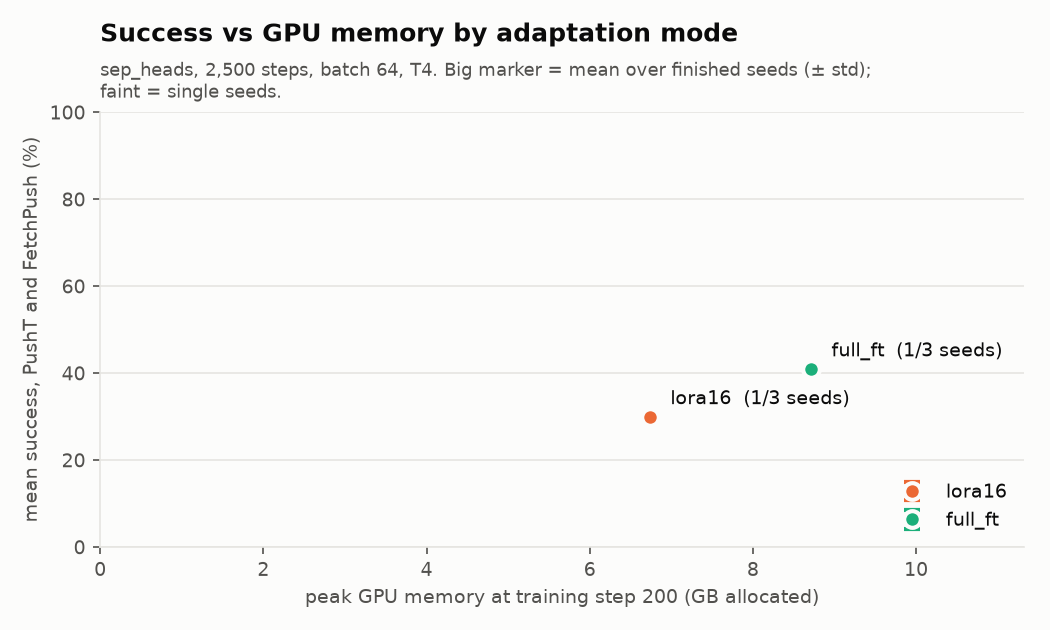
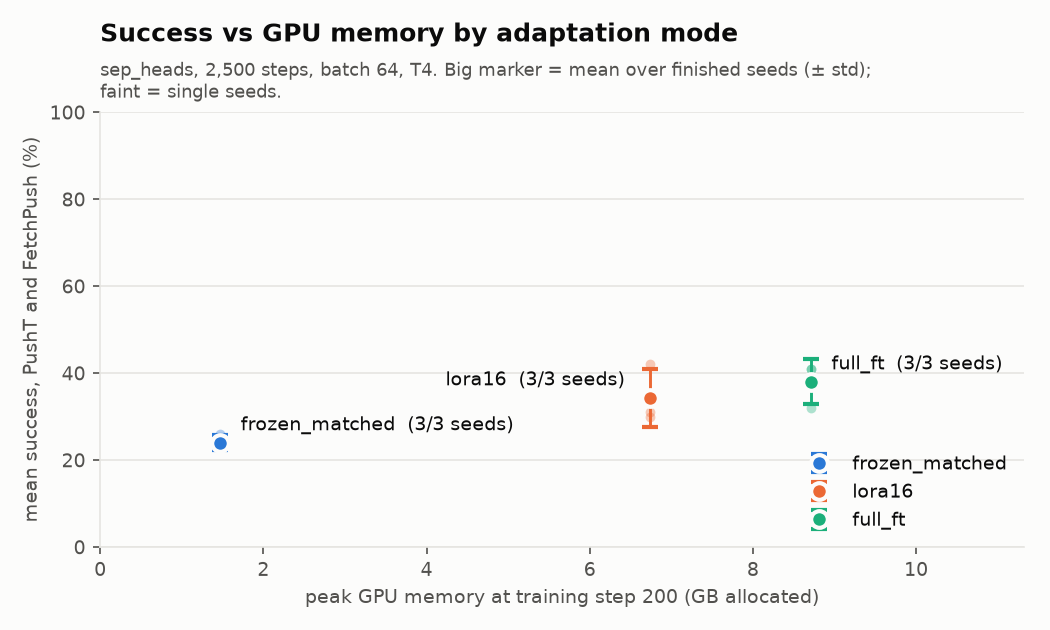
Phase 7: finished adaptation results, adapted VLA vs ResNet-18
- Rerun aggregate.py with all 30 planned runs finished (9 adaptation runs added).
- Adaptation table compares full_ft and lora16 against the ResNet-18 specialist per robot.
- findings.md: adaptation per robot (PushT and FetchPush separately), LoRA as % of
  full_ft per robot (41% PushT, 111% FetchPush, 90% mean), peak memory, full_ft PushT
  vs ResNet-18 (not distinguishable). Bootstrap intervals are still the approximate
  5-block version: the downloaded Kaggle notebooks hold console output, not metrics.json.
- plots.py: keep the lora16 label clear of the full_ft marker.

diff --git a/scripts/aggregate.py b/scripts/aggregate.py
@@ -667,6 +667,17 @@ def table_adaptation(rows) -> tuple[list[str], dict]:
     if pairs:
         lines += ["Gaps between adaptation modes:", ""]
         lines += _gap_rows(pairs, ("pusht", "fetch", "mean"), "Same bootstrap as in table 1.") + [""]
+    vs_resnet = []
+    for m in ("full_ft", "lora16"):
+        ra = config_rows(rows, "adaptation", m)
+        rp, rf = config_rows(rows, "baseline", "resnet18-pusht"), config_rows(rows, "baseline", "resnet18-fetch")
+        if ra and rp and rf:
+            vs_resnet.append((f"{m} − resnet18", {"pusht": compare(ra, rp, "pusht"), "fetch": compare(ra, rf, "fetch")}))
+    if vs_resnet:
+        lines += ["Adapted VLA vs the ResNet-18 specialist (ResNet-18: 4,000 steps, batch 128, one robot per model; "
+                  "adapted VLA: 2,500 steps, batch 64, one model for both robots):", ""]
+        lines += _gap_rows(vs_resnet, ("pusht", "fetch"), "Same bootstrap as in table 1.") + [""]
+    pairs = pairs + vs_resnet
     return lines, {"summaries": sums, "pairs": pairs}
 
 

diff --git a/scripts/plots.py b/scripts/plots.py
@@ -117,8 +117,9 @@ def adaptation_plot(rows, out: Path) -> Path:
         sd = 100 * succ.std(ddof=1) if len(succ) > 1 else 0.0
         ax.errorbar(mm, ms, yerr=sd, fmt="o", markersize=8, color=SERIES[j], markeredgecolor=SURFACE,
                     markeredgewidth=2, ecolor=SERIES[j], elinewidth=1.4, capsize=4, zorder=3, label=mode)
-        ax.annotate(f"{mode}  ({len(pts)}/3 seeds)", (mm, ms), xytext=(10, 6), textcoords="offset points",
-                    color=INK, fontsize=9)
+        left = mode == "lora16"  # sits next to full_ft: label it on the left so the two never collide
+        ax.annotate(f"{mode}  ({len(pts)}/3 seeds)", (mm, ms), xytext=(-12 if left else 10, 6),
+                    textcoords="offset points", ha="right" if left else "left", color=INK, fontsize=9)
     if not drawn:
         ax.text(0.5, 0.5, "No adaptation runs finished yet.\nRerun scripts/aggregate.py later.",
                 transform=ax.transAxes, ha="center", va="center", color=INK2, fontsize=11)

diff --git a/results/findings.md b/results/findings.md
@@ -2,16 +2,19 @@
 
 Written on 2026-11-26 from `results/results.csv` and the tables in the README (both made by
 `scripts/aggregate.py`). Every number below comes from those files, and the W&B run IDs are given
-in brackets. **Status when written:** all 9 conditioning runs and all 12 baseline runs had finished.
-Only 2 of the 9 adaptation runs had finished (seed 0 of lora16 and full_ft).
+in brackets. **Status:** all 30 planned runs have finished (9 conditioning, 12 baseline, 9 adaptation).
 
 **How to read the gaps.** A gap between two models is called **real** only if its 95% paired-bootstrap
-interval excludes 0. Otherwise it is **not distinguishable**. W&B does not hold per-seed results for
-these runs (only totals such as 32/50), so every bootstrap below is the approximate one: it
-resamples 5 blocks of 10 start seeds read from the console logs. Five units are too few for a
-trustworthy interval. So an approximate interval that excludes 0 is reported as **provisional**, not
-as real. The exact bootstrap over the 50 start seeds will replace it once the Kaggle `metrics.json`
-files are downloaded (see "What would change these numbers").
+interval excludes 0. Otherwise it is **not distinguishable**. Per-seed results are still not available:
+W&B holds only totals such as 32/50 for these runs, and the downloaded Kaggle notebooks
+(`outputs/kaggle/*.ipynb`) hold only the console output, not the run folders' `metrics.json`. So every
+bootstrap below is the approximate one: it resamples 5 blocks of 10 start seeds read from the console
+logs. Five units are too few for a trustworthy interval, so an approximate interval that excludes 0 is
+**provisional**, not real. There is one exception. A gap is called real when the approximate interval
+excludes 0, the pooled Wilson intervals do not overlap, *and* every training seed of one model beats
+every seed of the other. Such a gap is too large for the bootstrap's precision to matter. The exact
+bootstrap over the 50 start seeds will replace all of this once the `metrics.json` files are downloaded
+(see "What would change these numbers").
 
 **The FetchPush floor.** 5 of the 50 FetchPush starts (seeds 100004, 100010, 100021, 100036, 100049)
 already have the cube within 5 cm of the target. A robot that does nothing therefore scores 10%. Every
@@ -68,7 +71,9 @@ Runs: token `neo2m4ux` `vzqwyyqd` `yf3jvezd`, film `i0senai6` `2b1u0h6m` `houp0i
   7.3%. The gap is −7.3 pp [−15.3, −0.7], which is **provisional** (approximate interval, and the Wilson
   intervals overlap: [9.9, 21.2] vs [4.1, 12.7]). FetchPush: VLA 68.0% vs ResNet-18 51.3% (+41 pp
   above the floor). The gap is +16.7 pp [−2.0, +37.3]: **not distinguishable**.
-- So the shared VLA does not yet beat a separate ResNet-18 per robot. It may even be behind on PushT.
+- So the frozen VLA does not beat a separate ResNet-18 per robot, and it may be behind on PushT.
+  Fine-tuning DINOv2 changes the PushT picture (finding 5): full_ft reaches 22.7% PushT, and its gap to
+  ResNet-18 becomes not distinguishable.
 
 ## 4. Failure modes seen in the rollout videos
 
@@ -97,24 +102,49 @@ A likely cause of (1) and (2), not tested here: the model is trained with an L1 
 action chunk. Where the demonstrations disagree (go left or right around the T), it learns an average
 of them, which looks like hesitation or a push in a poor direction.
 
-## 5. Adaptation (preliminary, 1 of 3 seeds): LoRA saves less memory than expected and scores lower
+## 5. Adaptation: un-freezing DINOv2 is what helps PushT; LoRA keeps 90% of it overall, but only 41% on PushT
 
-Only seed 0 of lora16 (`8z9ys2qa`) and full_ft (`rje18trq`) had finished. frozen_matched, the fair
-frozen control, had not.
+All 9 runs finished: sep_heads, 2,500 steps, batch 64, seeds 0–2. frozen_matched is the fair control: same
+batch and steps, encoder frozen. Runs: frozen_matched `516mcmj3` `981owyth` `cw33zzpp`, lora16 `8z9ys2qa`
+`it8rjzpp` `qti0vdx9`, full_ft `rje18trq` `68prcuw5` `xl5yjno6`. ResNet-18 PushT: `331zxjun` `8un5xk7w` `ijmsr80q`.
 
-- Mean success: full fine-tuning 41.0% (PushT 22.0%, FetchPush 60.0%), LoRA 30.0% (PushT 14.0%,
-  FetchPush 46.0%). **LoRA reached 73% of full fine-tuning** (PushT 64%, FetchPush 77%). The gap
-  lora16 − full_ft is −11.0 pp [−15.0, −5.0] on the mean. That is **provisional**: one seed each, and
-  the approximate bootstrap.
-- Peak GPU memory at step 200: LoRA 6.73 GB vs full fine-tuning 8.71 GB = **23% lower**. That is a
-  real but modest saving. The adapters themselves are tiny (442,368 vs 22,056,576 trainable DINOv2
-  parameters), but both modes still run the full DINOv2 forward and backward pass over the images
-  at batch 64. LoRA mainly saves the optimizer state and the weight gradients of DINOv2.
-- Time: both took about 31 minutes per run, including evaluation (31.7 vs 31.1). LoRA saved no time.
-- FetchPush vs the floor: full fine-tuning 60.0% (+50 pp), LoRA 46.0% (+36 pp).
-- Something to watch, not a finding: full fine-tuning's 22% on PushT (11/50) is the best PushT rate of
-  any VLA run so far. It is one seed, though. frozen_matched must also finish before we can say whether
-  un-freezing helps, or whether the smaller batch at 2,500 steps does.
+| Mode | PushT | FetchPush (floor 10%) | Mean | Peak GPU memory @200 | Minutes/run |
+|---|---|---|---|---|---|
+| frozen_matched | 1.3 ± 1.2% (2/150) | 46.7 ± 3.1% (+36.7 pp) | 24.0 ± 1.7% | 1.47 GB | 9.6 |
+| lora16 | 9.3 ± 6.4% (14/150) | 59.3 ± 13.0% (+49.3 pp) | 34.3 ± 6.7% | 6.73 GB | 30.1 |
+| full_ft | 22.7 ± 3.1% (34/150) | 53.3 ± 8.3% (+43.3 pp) | 38.0 ± 5.2% | 8.71 GB | 29.7 |
+
+- **PushT: full fine-tuning is clearly better than the frozen control. This gap is real.** It is
+  +21.3 pp [+18.0, +26.0]. The pooled Wilson intervals do not overlap ([16.7, 30.0] vs [0.4, 4.7]), and
+  every full_ft seed (22, 20, 26%) beats every frozen_matched seed (0, 2, 2%). Letting DINOv2 adapt is
+  what makes PushT work at all at this budget.
+- **PushT: LoRA reaches only 41% of full fine-tuning (9.3% vs 22.7%). This gap is also real.** It is
+  −13.3 pp [−16.0, −10.7]. The Wilson intervals do not overlap ([5.6, 15.1] vs [16.7, 30.0]), and every
+  full_ft seed beats every lora16 seed (14, 12, 2%). LoRA vs the frozen control on PushT is +8.0 pp
+  [+5.3, +11.3]. That one is **provisional**: lora16's seed 2 (2%) ties the control.
+- **FetchPush: no mode is clearly ahead.** LoRA 59.3%, full_ft 53.3%, frozen_matched 46.7%, all well
+  above the 10% floor. **LoRA reaches 111% of full fine-tuning here.** The gaps lora16 − full_ft +6.0 pp
+  [+2.0, +10.0] and lora16 − frozen_matched +12.7 pp [+1.3, +20.7] are **provisional**: their seeds
+  overlap a lot (lora16 46, 72, 60%; full_ft 60, 44, 56%). full_ft − frozen_matched +6.7 pp [−5.3, +16.7]
+  is **not distinguishable**. Unsolved-start ranges: 55–70 / 74–89 / 65–80 of 135.
+- **Mean success: LoRA reaches 90% of full fine-tuning (34.3% vs 38.0%).** That 90% is an average of a
+  big PushT loss and a small FetchPush gain, so per robot (41% and 111%) is the honest way to report it.
+  The mean gap −3.7 pp [−6.3, −1.0] is **provisional**.
+- **Memory: LoRA uses 23% less peak GPU memory than full fine-tuning (6.73 vs 8.71 GB at step 200).**
+  It uses 4.6 times more than frozen features (1.47 GB). The adapters are tiny (442,368 vs 22,056,576
+  trainable DINOv2 parameters). But both modes still run DINOv2 forward and backward on every image,
+  so the activation memory stays. LoRA only saves DINOv2's weight gradients and optimizer state. Time:
+  LoRA and full fine-tuning both take about 30 minutes per run (frozen: about 10), so LoRA saves no time.
+- **full_ft PushT vs the ResNet-18 specialist: not distinguishable.** full_ft has 22.7 ± 3.1%
+  (34/150, Wilson [16.7, 30.0]) and ResNet-18 has 14.7 ± 6.1% (22/150, [9.9, 21.2]). The gap is
+  +8.0 pp [−3.3, +16.0], and the intervals overlap. So the fine-tuned VLA closes the PushT gap that
+  the frozen VLA had (finding 3), but it does not beat ResNet-18. On FetchPush, full_ft − ResNet-18 is
+  +2.0 pp [−14.7, +18.7]: not distinguishable either. The comparison is not budget-matched: ResNet-18
+  trained 4,000 steps at batch 128 on one robot, the VLA 2,500 steps at batch 64 shared by both robots.
+- **The training budget matters as much as the encoder.** frozen_matched (2,500 steps × 64 = 160k
+  samples) scores 24.0% mean, against 37.7% for the same frozen sep_heads model at 4,000 steps × 256
+  (1.0M samples). On PushT, full_ft at the small budget (22.7%) beats frozen sep_heads at the large
+  one (7.3%). That comparison mixes budget and encoder, so it is an observation, not a measured gap.
 
 ---
 
@@ -124,9 +154,12 @@ frozen control, had not.
   `outputs/kaggle/` and rerun `.venv/bin/python scripts/aggregate.py`. The "approx." intervals then
   become exact paired bootstraps over the 50 start seeds. The FetchPush "unsolved starts" ranges then
   become exact counts, and the provisional gaps in findings 2, 3 and 5 are either confirmed or dropped.
+  The files to download are the run folders under `/kaggle/working/outputs/` (for example
+  `sep_heads-lora16-s2-bd071b5/metrics.json`), from each batch notebook's Output tab. The `.ipynb`
+  notebooks themselves are not enough.
   Runs from now on also save per-seed results to W&B (`eval/<robot>_episode_success`).
-- **The adaptation batch.** Rerun the script when it finishes. Finding 5 should then be rewritten with
-  3 seeds per mode and the frozen_matched control.
+- **The adaptation gaps.** With per-seed data, check the provisional FetchPush and mean gaps in finding 5.
+  The two "real" PushT gaps are expected to stay real, given how far apart the seeds are.
 - The bootstrap treats each training seed as fixed: it measures luck in the start states, not luck in
   training. The mean ± std columns show training luck, and it is large (sep_heads PushT ranges 0–18%
   across seeds).

diff --git a/README.md b/README.md
@@ -9,12 +9,12 @@ Results are below, generated by `scripts/aggregate.py`; every number traces to W
 <!-- results:start -->
 ## Results
 
-Generated by `scripts/aggregate.py` on 2026-11-26 12:25 from W&B project `vla-multiembodiment`. Every row lists the W&B run IDs it was computed from; all per-run numbers, commits and links are in [results/results.csv](results/results.csv). Success rates are over 50 rollouts per robot per run from the fixed start seeds 100000–100049. Mean ± std is over training seeds. Per-seed results available for 0 of 23 finished runs.
+Generated by `scripts/aggregate.py` on 2026-11-26 14:34 from W&B project `vla-multiembodiment`. Every row lists the W&B run IDs it was computed from; all per-run numbers, commits and links are in [results/results.csv](results/results.csv). Success rates are over 50 rollouts per robot per run from the fixed start seeds 100000–100049. Mean ± std is over training seeds. Per-seed results available for 0 of 30 finished runs.
 
 Run status:
 - conditioning: 9 finished (of 9)
 - baseline: 12 finished (of 12)
-- adaptation: 2 finished, 5 missing, 2 running (of 9)
+- adaptation: 9 finished (of 9)
 
 ### 1. Conditioning variants (frozen encoders, 4,000 steps)
 
@@ -47,11 +47,11 @@ Gaps are A − B in percentage points. The interval is a paired bootstrap (10,00
 | sep_heads | 3/3 | 102/150 = 68.0% [60.2, 74.9] | +58.0 | 87–102 of 135 (range; needs per-seed data) |
 | bc_mlp | 3/3 | 15/150 = 10.0% [6.2, 15.8] | +0.0 | 0–15 of 135 (range; needs per-seed data) |
 | resnet18 | 3/3 | 77/150 = 51.3% [43.4, 59.2] | +41.3 | 62–77 of 135 (range; needs per-seed data) |
-| sep_heads frozen_matched (2500 steps) | 0/3 | not finished | – | – |
-| sep_heads lora16 (2500 steps) | 1/3 | 23/50 = 46.0% [33.0, 59.6] | +36.0 | 18–23 of 45 (range; needs per-seed data) |
-| sep_heads full_ft (2500 steps) | 1/3 | 30/50 = 60.0% [46.2, 72.4] | +50.0 | 25–30 of 45 (range; needs per-seed data) |
+| sep_heads frozen_matched (2500 steps) | 3/3 | 70/150 = 46.7% [38.9, 54.6] | +36.7 | 55–70 of 135 (range; needs per-seed data) |
+| sep_heads lora16 (2500 steps) | 3/3 | 89/150 = 59.3% [51.3, 66.9] | +49.3 | 74–89 of 135 (range; needs per-seed data) |
+| sep_heads full_ft (2500 steps) | 3/3 | 80/150 = 53.3% [45.4, 61.1] | +43.3 | 65–80 of 135 (range; needs per-seed data) |
 
-Runs: token: `neo2m4ux`, `vzqwyyqd`, `yf3jvezd` · film: `i0senai6`, `2b1u0h6m`, `houp0iwv` · sep_heads: `m5gn67rl`, `lf76862i`, `rgxuk3g9` · bc_mlp: `lv456bp9`, `qvkm8zhp`, `4g9gno56` · resnet18: `4i1b97s2`, `3oja5t5i`, `nbzs4vx7` · sep_heads lora16 (2500 steps): `8z9ys2qa` · sep_heads full_ft (2500 steps): `rje18trq`
+Runs: token: `neo2m4ux`, `vzqwyyqd`, `yf3jvezd` · film: `i0senai6`, `2b1u0h6m`, `houp0iwv` · sep_heads: `m5gn67rl`, `lf76862i`, `rgxuk3g9` · bc_mlp: `lv456bp9`, `qvkm8zhp`, `4g9gno56` · resnet18: `4i1b97s2`, `3oja5t5i`, `nbzs4vx7` · sep_heads frozen_matched (2500 steps): `516mcmj3`, `981owyth`, `cw33zzpp` · sep_heads lora16 (2500 steps): `8z9ys2qa`, `it8rjzpp`, `qti0vdx9` · sep_heads full_ft (2500 steps): `rje18trq`, `68prcuw5`, `xl5yjno6`
 
 ### 3. Baselines vs the VLA (4,000 steps each)
 
@@ -82,19 +82,30 @@ Same bootstrap as in table 1.
 
 | Mode | Seeds | PushT success | FetchPush success | Mean success | % of full_ft (mean) | Peak GPU memory @200 | Minutes per run | Trainable params (DINOv2 + rest) |
 |---|---|---|---|---|---|---|---|---|
-| frozen_matched | 0/3 | not finished | | | | | | |
-| lora16 | 1/3 | 14.0% (1 seed) | 46.0% (1 seed) | 30.0% (1 seed) | 73% | 6.73 GB | 31.7 | 442,368 + 14,826,630 |
-| full_ft | 1/3 | 22.0% (1 seed) | 60.0% (1 seed) | 41.0% (1 seed) | 100% | 8.71 GB | 31.1 | 22,056,576 + 14,826,630 |
+| frozen_matched | 3/3 | 1.3 ± 1.2% | 46.7 ± 3.1% | 24.0 ± 1.7% | 63% | 1.47 GB | 9.6 | 0 + 14,826,630 |
+| lora16 | 3/3 | 9.3 ± 6.4% | 59.3 ± 13.0% | 34.3 ± 6.7% | 90% | 6.73 GB | 30.1 | 442,368 + 14,826,630 |
+| full_ft | 3/3 | 22.7 ± 3.1% | 53.3 ± 8.3% | 38.0 ± 5.2% | 100% | 8.71 GB | 29.7 | 22,056,576 + 14,826,630 |
 
-Runs: frozen_matched: none yet · lora16: `8z9ys2qa` · full_ft: `rje18trq`
+Runs: frozen_matched: `516mcmj3`, `981owyth`, `cw33zzpp` · lora16: `8z9ys2qa`, `it8rjzpp`, `qti0vdx9` · full_ft: `rje18trq`, `68prcuw5`, `xl5yjno6`
 
-LoRA reaches 73% of full fine-tuning's mean success (PushT 64%, FetchPush 77%) with 23% lower peak GPU memory at step 200 (1 and 1 of 3 seeds).
+LoRA reaches 90% of full fine-tuning's mean success (PushT 41%, FetchPush 111%) with 23% lower peak GPU memory at step 200 (3 and 3 of 3 seeds).
 
 Gaps between adaptation modes:
 
 | Pair (A − B) | PushT gap, pp [95% CI] | FetchPush gap, pp [95% CI] | Mean gap, pp [95% CI] | Method | Verdict |
 |---|---|---|---|---|---|
-| lora16 − full_ft | -8.0 [-10.0, -4.0] * | -14.0 [-24.0, -2.0] * | -11.0 [-15.0, -5.0] * | approx. (5 blocks of 10 starts) | excludes 0 on PushT, FetchPush, mean (approx. only: provisional) |
+| lora16 − full_ft | -13.3 [-16.0, -10.7] * | +6.0 [+2.0, +10.0] * | -3.7 [-6.3, -1.0] * | approx. (5 blocks of 10 starts) | excludes 0 on PushT, FetchPush, mean (approx. only: provisional) |
+| lora16 − frozen_matched | +8.0 [+5.3, +11.3] * | +12.7 [+1.3, +20.7] * | +10.3 [+3.0, +15.0] * | approx. (5 blocks of 10 starts) | excludes 0 on PushT, FetchPush, mean (approx. only: provisional) |
+| full_ft − frozen_matched | +21.3 [+18.0, +26.0] * | +6.7 [-5.3, +16.7] | +14.0 [+8.0, +19.7] * | approx. (5 blocks of 10 starts) | excludes 0 on PushT, mean (approx. only: provisional) |
+
+Same bootstrap as in table 1.
+
+Adapted VLA vs the ResNet-18 specialist (ResNet-18: 4,000 steps, batch 128, one robot per model; adapted VLA: 2,500 steps, batch 64, one model for both robots):
+
+| Pair (A − B) | PushT gap, pp [95% CI] | FetchPush gap, pp [95% CI] | Method | Verdict |
+|---|---|---|---|---|
+| full_ft − resnet18 | +8.0 [-3.3, +16.0] | +2.0 [-14.7, +18.7] | approx. (5 blocks of 10 starts) | not distinguishable |
+| lora16 − resnet18 | -5.3 [-14.7, +2.0] | +8.0 [-10.7, +24.0] | approx. (5 blocks of 10 starts) | not distinguishable |
 
 Same bootstrap as in table 1.
 

diff --git a/results/tables.md b/results/tables.md
@@ -1,11 +1,11 @@
 # Results tables
 
-Generated by `scripts/aggregate.py` on 2026-11-26 12:25 from W&B project `vla-multiembodiment`. Every row lists the W&B run IDs it was computed from; all per-run numbers, commits and links are in [results/results.csv](results.csv). Success rates are over 50 rollouts per robot per run from the fixed start seeds 100000–100049. Mean ± std is over training seeds. Per-seed results available for 0 of 23 finished runs.
+Generated by `scripts/aggregate.py` on 2026-11-26 14:34 from W&B project `vla-multiembodiment`. Every row lists the W&B run IDs it was computed from; all per-run numbers, commits and links are in [results/results.csv](results.csv). Success rates are over 50 rollouts per robot per run from the fixed start seeds 100000–100049. Mean ± std is over training seeds. Per-seed results available for 0 of 30 finished runs.
 
 Run status:
 - conditioning: 9 finished (of 9)
 - baseline: 12 finished (of 12)
-- adaptation: 2 finished, 5 missing, 2 running (of 9)
+- adaptation: 9 finished (of 9)
 
 ### 1. Conditioning variants (frozen encoders, 4,000 steps)
 
@@ -38,11 +38,11 @@ Gaps are A − B in percentage points. The interval is a paired bootstrap (10,00
 | sep_heads | 3/3 | 102/150 = 68.0% [60.2, 74.9] | +58.0 | 87–102 of 135 (range; needs per-seed data) |
 | bc_mlp | 3/3 | 15/150 = 10.0% [6.2, 15.8] | +0.0 | 0–15 of 135 (range; needs per-seed data) |
 | resnet18 | 3/3 | 77/150 = 51.3% [43.4, 59.2] | +41.3 | 62–77 of 135 (range; needs per-seed data) |
-| sep_heads frozen_matched (2500 steps) | 0/3 | not finished | – | – |
-| sep_heads lora16 (2500 steps) | 1/3 | 23/50 = 46.0% [33.0, 59.6] | +36.0 | 18–23 of 45 (range; needs per-seed data) |
-| sep_heads full_ft (2500 steps) | 1/3 | 30/50 = 60.0% [46.2, 72.4] | +50.0 | 25–30 of 45 (range; needs per-seed data) |
+| sep_heads frozen_matched (2500 steps) | 3/3 | 70/150 = 46.7% [38.9, 54.6] | +36.7 | 55–70 of 135 (range; needs per-seed data) |
+| sep_heads lora16 (2500 steps) | 3/3 | 89/150 = 59.3% [51.3, 66.9] | +49.3 | 74–89 of 135 (range; needs per-seed data) |
+| sep_heads full_ft (2500 steps) | 3/3 | 80/150 = 53.3% [45.4, 61.1] | +43.3 | 65–80 of 135 (range; needs per-seed data) |
 
-Runs: token: `neo2m4ux`, `vzqwyyqd`, `yf3jvezd` · film: `i0senai6`, `2b1u0h6m`, `houp0iwv` · sep_heads: `m5gn67rl`, `lf76862i`, `rgxuk3g9` · bc_mlp: `lv456bp9`, `qvkm8zhp`, `4g9gno56` · resnet18: `4i1b97s2`, `3oja5t5i`, `nbzs4vx7` · sep_heads lora16 (2500 steps): `8z9ys2qa` · sep_heads full_ft (2500 steps): `rje18trq`
+Runs: token: `neo2m4ux`, `vzqwyyqd`, `yf3jvezd` · film: `i0senai6`, `2b1u0h6m`, `houp0iwv` · sep_heads: `m5gn67rl`, `lf76862i`, `rgxuk3g9` · bc_mlp: `lv456bp9`, `qvkm8zhp`, `4g9gno56` · resnet18: `4i1b97s2`, `3oja5t5i`, `nbzs4vx7` · sep_heads frozen_matched (2500 steps): `516mcmj3`, `981owyth`, `cw33zzpp` · sep_heads lora16 (2500 steps): `8z9ys2qa`, `it8rjzpp`, `qti0vdx9` · sep_heads full_ft (2500 steps): `rje18trq`, `68prcuw5`, `xl5yjno6`
 
 ### 3. Baselines vs the VLA (4,000 steps each)
 
@@ -73,19 +73,30 @@ Same bootstrap as in table 1.
 
 | Mode | Seeds | PushT success | FetchPush success | Mean success | % of full_ft (mean) | Peak GPU memory @200 | Minutes per run | Trainable params (DINOv2 + rest) |
 |---|---|---|---|---|---|---|---|---|
-| frozen_matched | 0/3 | not finished | | | | | | |
-| lora16 | 1/3 | 14.0% (1 seed) | 46.0% (1 seed) | 30.0% (1 seed) | 73% | 6.73 GB | 31.7 | 442,368 + 14,826,630 |
-| full_ft | 1/3 | 22.0% (1 seed) | 60.0% (1 seed) | 41.0% (1 seed) | 100% | 8.71 GB | 31.1 | 22,056,576 + 14,826,630 |
+| frozen_matched | 3/3 | 1.3 ± 1.2% | 46.7 ± 3.1% | 24.0 ± 1.7% | 63% | 1.47 GB | 9.6 | 0 + 14,826,630 |
+| lora16 | 3/3 | 9.3 ± 6.4% | 59.3 ± 13.0% | 34.3 ± 6.7% | 90% | 6.73 GB | 30.1 | 442,368 + 14,826,630 |
+| full_ft | 3/3 | 22.7 ± 3.1% | 53.3 ± 8.3% | 38.0 ± 5.2% | 100% | 8.71 GB | 29.7 | 22,056,576 + 14,826,630 |
 
-Runs: frozen_matched: none yet · lora16: `8z9ys2qa` · full_ft: `rje18trq`
+Runs: frozen_matched: `516mcmj3`, `981owyth`, `cw33zzpp` · lora16: `8z9ys2qa`, `it8rjzpp`, `qti0vdx9` · full_ft: `rje18trq`, `68prcuw5`, `xl5yjno6`
 
-LoRA reaches 73% of full fine-tuning's mean success (PushT 64%, FetchPush 77%) with 23% lower peak GPU memory at step 200 (1 and 1 of 3 seeds).
+LoRA reaches 90% of full fine-tuning's mean success (PushT 41%, FetchPush 111%) with 23% lower peak GPU memory at step 200 (3 and 3 of 3 seeds).
 
 Gaps between adaptation modes:
 
 | Pair (A − B) | PushT gap, pp [95% CI] | FetchPush gap, pp [95% CI] | Mean gap, pp [95% CI] | Method | Verdict |
 |---|---|---|---|---|---|
-| lora16 − full_ft | -8.0 [-10.0, -4.0] * | -14.0 [-24.0, -2.0] * | -11.0 [-15.0, -5.0] * | approx. (5 blocks of 10 starts) | excludes 0 on PushT, FetchPush, mean (approx. only: provisional) |
+| lora16 − full_ft | -13.3 [-16.0, -10.7] * | +6.0 [+2.0, +10.0] * | -3.7 [-6.3, -1.0] * | approx. (5 blocks of 10 starts) | excludes 0 on PushT, FetchPush, mean (approx. only: provisional) |
+| lora16 − frozen_matched | +8.0 [+5.3, +11.3] * | +12.7 [+1.3, +20.7] * | +10.3 [+3.0, +15.0] * | approx. (5 blocks of 10 starts) | excludes 0 on PushT, FetchPush, mean (approx. only: provisional) |
+| full_ft − frozen_matched | +21.3 [+18.0, +26.0] * | +6.7 [-5.3, +16.7] | +14.0 [+8.0, +19.7] * | approx. (5 blocks of 10 starts) | excludes 0 on PushT, mean (approx. only: provisional) |
+
+Same bootstrap as in table 1.
+
+Adapted VLA vs the ResNet-18 specialist (ResNet-18: 4,000 steps, batch 128, one robot per model; adapted VLA: 2,500 steps, batch 64, one model for both robots):
+
+| Pair (A − B) | PushT gap, pp [95% CI] | FetchPush gap, pp [95% CI] | Method | Verdict |
+|---|---|---|---|---|
+| full_ft − resnet18 | +8.0 [-3.3, +16.0] | +2.0 [-14.7, +18.7] | approx. (5 blocks of 10 starts) | not distinguishable |
+| lora16 − resnet18 | -5.3 [-14.7, +2.0] | +8.0 [-10.7, +24.0] | approx. (5 blocks of 10 starts) | not distinguishable |
 
 Same bootstrap as in table 1.
 
